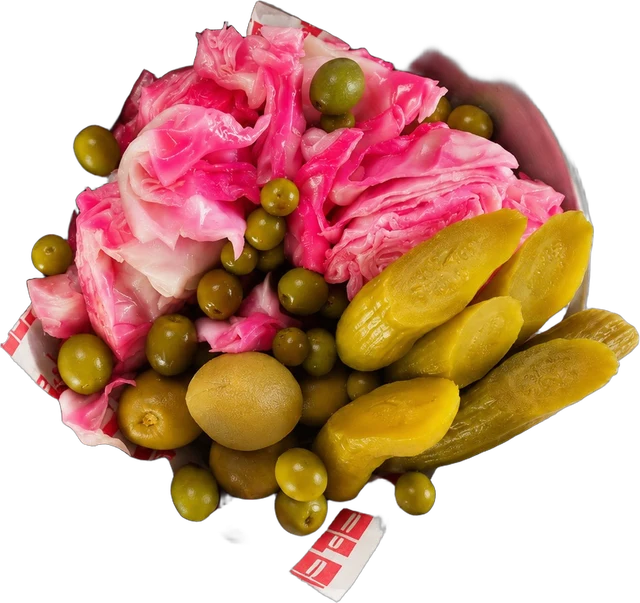
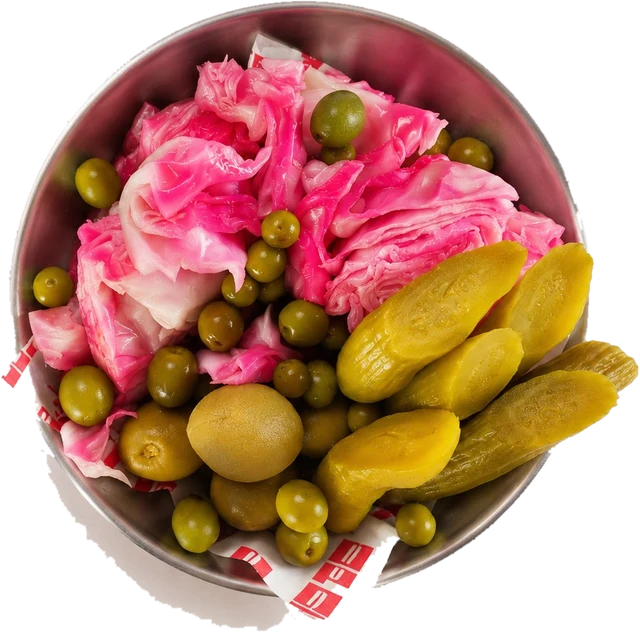
Paylaşımlık görselleri: tabak/kâğıt/sos korunarak birleşik kesim (scripts/cut-plate.py), beyaz gölge temizlendi

diff --git a/src/app.js b/src/app.js
@@ -8,7 +8,7 @@ import FIGS_DATA from './data/figs.json';
 import { ARMY_SVG, ARMY_KIND } from './data/army-figs.js';
 
 /* fotoğraflar yeniden kesildiğinde artır (tarayıcı önbelleğini kırar) */
-const IMG_V = 7;
+const IMG_V = 10;
 const menu = await fetch('/menu.json').then(r => r.json());
 
 /* menu.json → referanstaki düz ürün listesi biçimi */

diff --git a/scripts/cut-plate.py b/scripts/cut-plate.py
@@ -1,0 +1,27 @@
+# Birleşik kesim v2: saf beyaz zemin + ona bağlı, içe doğru koyulaşan stüdyo gölgesi zemine katılır
+# (kâğıt gibi tekrar açılan beyazlara sızmaz); sınır 1 px içeri alınır → beyaz hale kalmaz
+import sys, numpy as np
+from PIL import Image
+from scipy import ndimage as nd
+d, T, MODE = sys.argv[1], int(sys.argv[2]), sys.argv[3]  # MODE: bowl (gölge silinir) | bowl! (BiRefNet'in ürün sandığı gölge de silinir) | paper (kâğıt korunur)
+K = np.ones((3, 3), bool)
+for id in sys.argv[4:]:
+    rgb = np.asarray(Image.open(f'{d}/src/{id}.png').convert('RGB')).astype(np.int16)
+    bir = np.asarray(Image.open(f'{d}/raw/{id}.png'))[..., 3].astype(np.float32)
+    mn, mx = rgb.min(2), rgb.max(2); lum = rgb.mean(2).astype(np.float32)
+    white = (mn >= T) & (mx - mn <= 14)
+    lab, _ = nd.label(white)
+    border = np.unique(np.concatenate([lab[0], lab[-1], lab[:, 0], lab[:, -1]]))
+    bg = np.isin(lab, border[border > 0])
+    cand = (mx - mn <= 18) & (lum >= 165) & ((bir < 128) | (MODE == 'bowl!'))          # gri-beyaz, BiRefNet'e göre de arkaplan
+    it = 0
+    for it in range(400 if MODE.startswith('bowl') else 0):
+        nb = nd.grey_dilation(np.where(bg, lum, -1), footprint=K)  # komşu zemin pikselinin parlaklığı
+        add = cand & ~bg & (nb >= 0) & (lum <= nb + 2.5)           # yalnız aynı/daha koyu ise (gölge) ilerle
+        if not add.any(): break
+        bg |= add
+    bg = nd.binary_dilation(bg, K, iterations=1)                   # 1 px içeri
+    soft = nd.gaussian_filter(bg.astype(np.float32), 0.8)
+    a = (1 - soft) * 255
+    out = np.dstack([rgb.astype(np.uint8), np.clip(a, 0, 255).astype(np.uint8)])
+    Image.fromarray(out, 'RGBA').save(f'{d}/hyb/{id}_v2.png'); print('ok', id, it)
